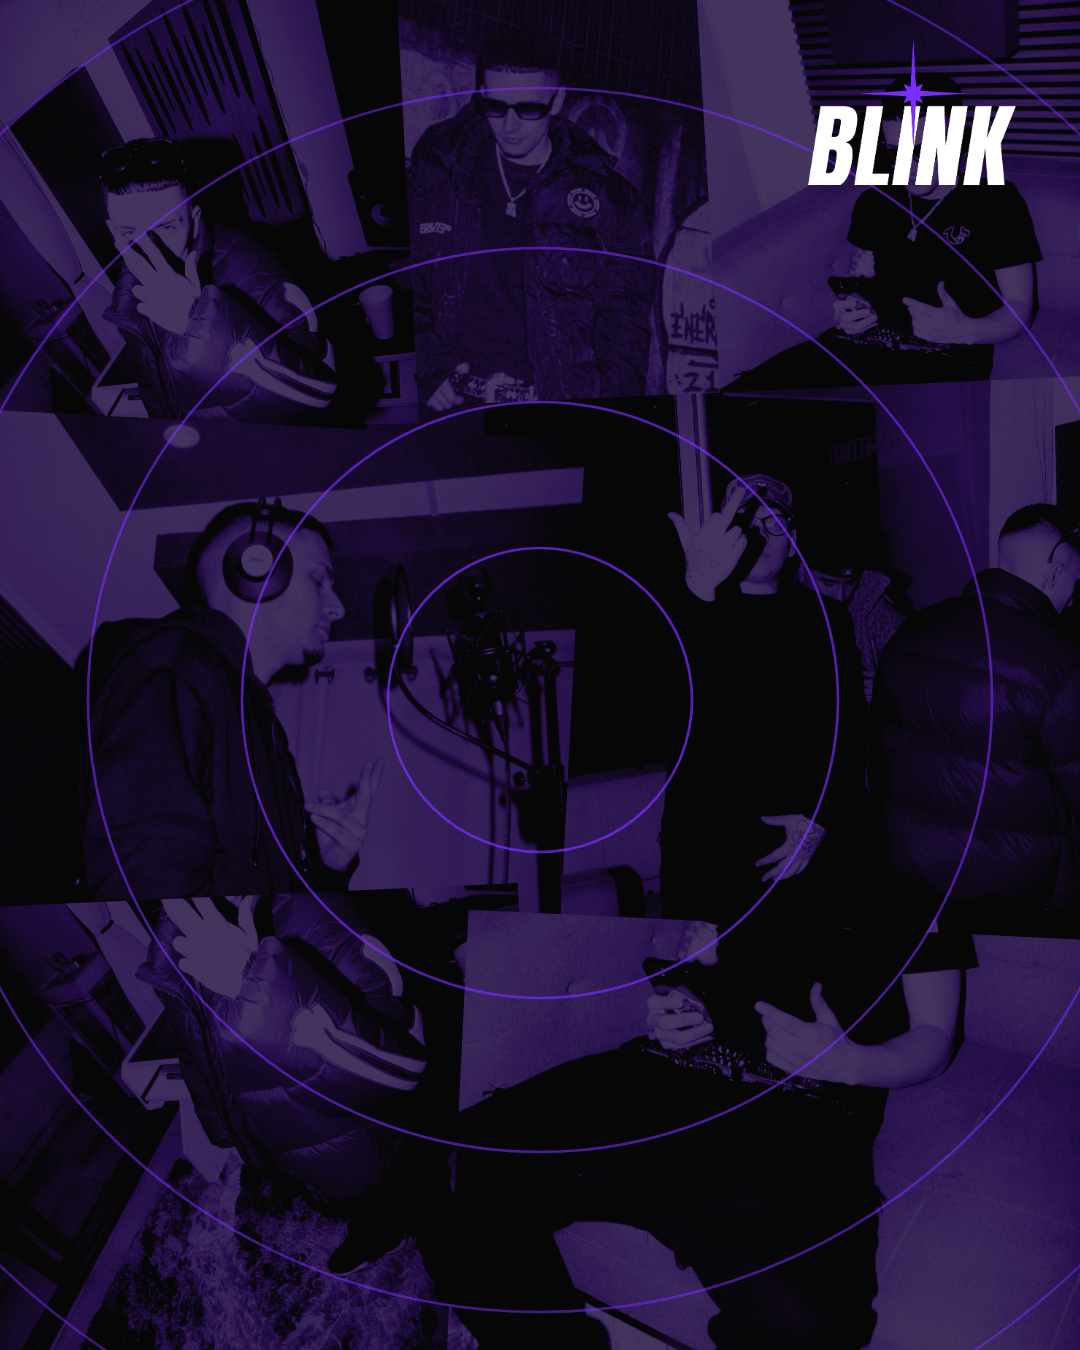
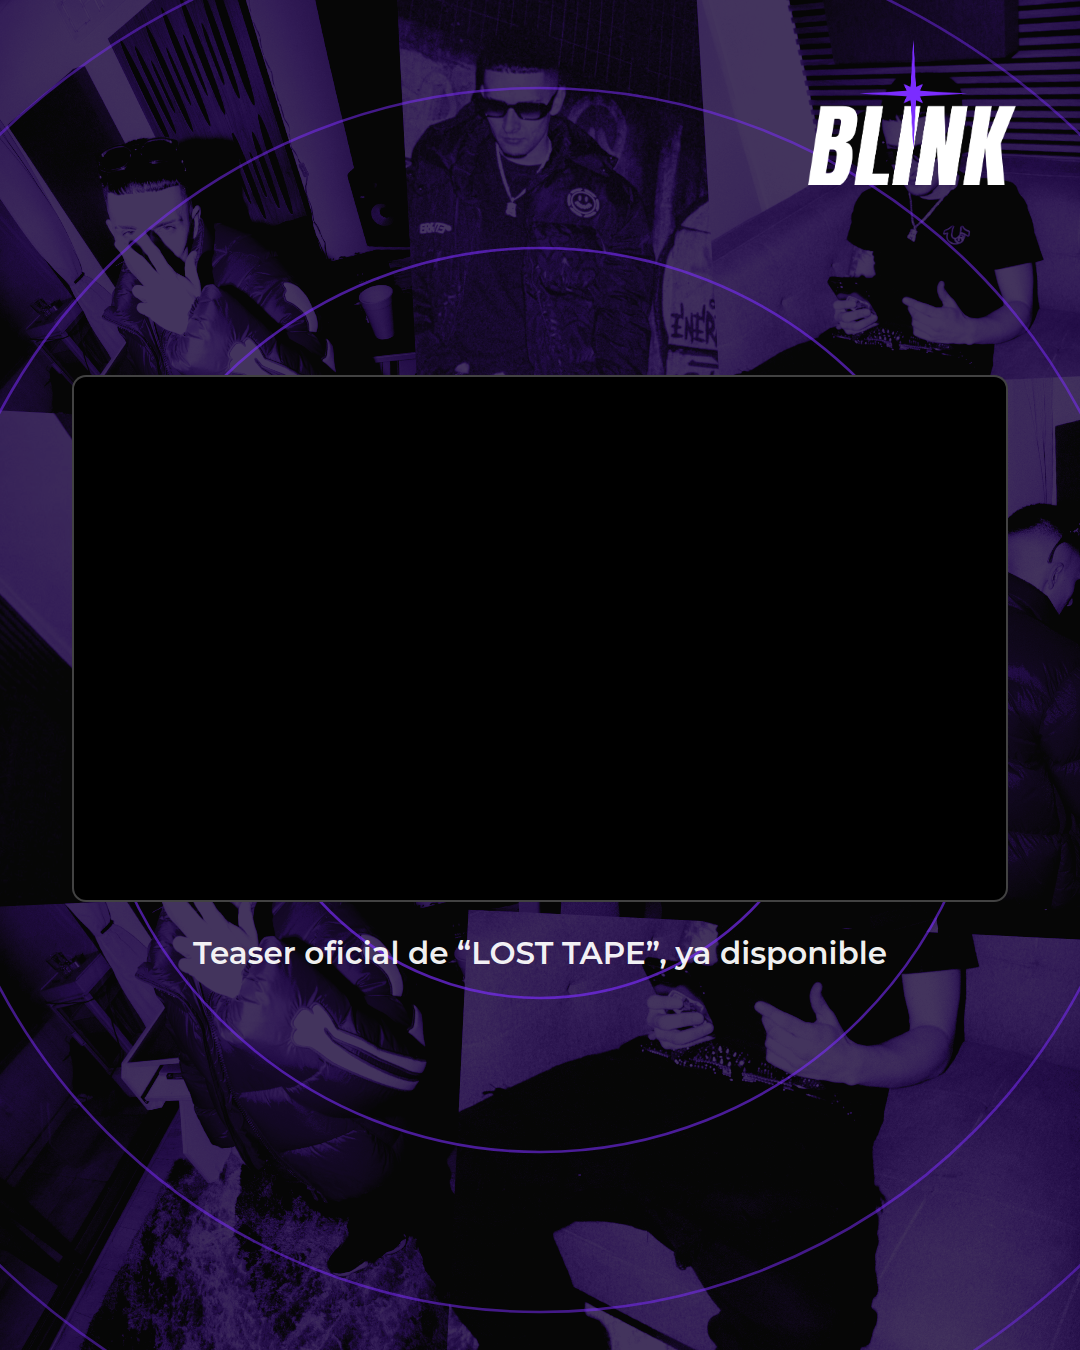
Blink Radar TANE: la lámina del extracto lleva recuadro de video y bajada
El fondo suelto pasa a tener un recuadro en 16:9 donde Mia monta el video
horizontal, centrado en el alto, y abajo la bajada "Teaser oficial de LOST
TAPE, ya disponible".

Claude-Session: https://claude.ai/code/session_01NF4PN4Z1tGA2GQg6PseM5W

Changed region(s): [[0.0611, 0.28, 0.9472, 0.7156], [0.6111, 0.4667, 0.6417, 0.4978]]

diff --git a/radar-tane.html b/radar-tane.html
@@ -219,6 +219,22 @@
     color:rgba(255,255,255,.94); text-align:center; text-wrap:balance;
   }
 
+  /* Esta lámina es casi puro recuadro, así que se centra en todo el alto. */
+  .cuerpo.medio{ padding:160px 0; }
+
+  /* el recuadro donde Mia monta el video, en 16:9 */
+  .video{ display:flex; flex-direction:column; align-items:center; gap:30px; }
+  .video .marco{
+    width:936px; height:527px;
+    background:#000;
+    border:2px solid rgba(255,255,255,.26);
+    border-radius:14px;
+  }
+  .video p{
+    font-weight:600; font-size:31px; line-height:1.38;
+    color:rgba(255,255,255,.94); text-align:center;
+  }
+
   /* el cierre */
   .cierre{
     position:absolute; z-index:5; inset:0;
@@ -366,7 +382,13 @@ const LAMINAS = {
       '</div>' +
     '</div>' },
 
-  7: { html:"" },
+  7: { html:
+    '<div class="cuerpo medio">' +
+      '<div class="video">' +
+        '<div class="marco"></div>' +
+        '<p>Teaser oficial de “LOST TAPE”, ya disponible</p>' +
+      '</div>' +
+    '</div>' },
 
   8: { html:
     '<div class="cierre">' +
